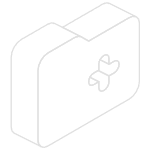
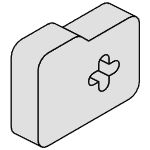
feat: update WorkCard styles for improved layout and background color

diff --git a/src/components/WorkCard/WorkCard.module.css b/src/components/WorkCard/WorkCard.module.css
@@ -12,6 +12,8 @@
   width: 100% fix issue because it take up the available space */
   height: 183px;
   border-radius: var(--radius-lg);
+
+  background-color: var(--color-neutral-800);
 }
 
 .cardBg {
@@ -24,7 +26,9 @@
   transition: transform 0.4s ease;
   z-index: 0;
 
-  margin: 0 auto;
+  margin-top: 16px;
+  margin-left: auto;
+  margin-right: auto;
 }
 
 .WorkCardWrapper:hover .cardBg {
@@ -62,6 +66,7 @@
     rgb(255, 255, 255) 45%,
     transparent 100%
   );
-  background-color: rgb(125 112 112 / 40%);
-  background-color: rgb(186 186 186 / 40%);
+
+  /* background-color: rgb(186 186 186 / 40%); */
+  background-color: rgb(58 58 58 / 40%);
 }
